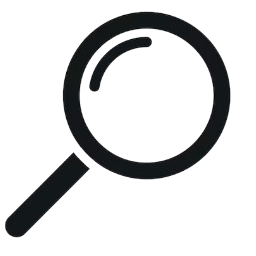
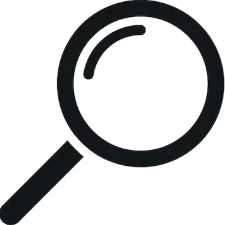
Changes:
Redesigned search button, changed product display layout slightly

Changed region(s): [[0.0, 0.0, 1.0, 1.0]]

diff --git a/static/style.css b/static/style.css
@@ -117,6 +117,9 @@ nav a {
     background-color:inherit;
     color: rgb(33, 37, 41);
 }
+.search_bar input:focus {
+    outline: none;
+}
 
 .search_bar {
     margin-right: 10px;
@@ -124,15 +127,21 @@ nav a {
 .search_bar button img {
     width: 20px;
     height: 20px;
+    align-items: center;
+    justify-content: center;
+    padding-right: 0px;
 }
 .search_bar button {
     background: none;
     border: none;
+    display: flex;
 }
 .search_bar form {
     outline:rgb(33, 37, 41) solid 2px;
     align-items: center;    
     justify-content: center;
+    display: flex;
+    padding: 2px;
 }
 /* Shop Button Dropdown Items */
 .dropdown_menu {
@@ -238,6 +247,8 @@ nav a {
     max-height: 45vh;
     border-radius: 10px;
     outline: black solid 5px;
+    margin-left: 10%;
+    margin-right:20%;
 }
 .displayProduct_info {
     display: flex;
@@ -247,5 +258,5 @@ nav a {
     align-items: flex-start;
 }
 .main_content button {
-    
+    font-size: 2rem;
 }

diff --git a/templates/display_product.html b/templates/display_product.html
@@ -25,7 +25,7 @@
             <div class="search_bar">
                 <form action="{{ url_for('search') }}" method="post">
                     <input type="text" name="SEARCH_BOX" placeholder="Search...">
-                    <button type="submit">Search</button>
+                    <button type="submit"><img src="{{ url_for('static', filename='images/search_icon.png') }}"></button>
                 </form>
             </div>
             <div class="cart_button">

diff --git a/templates/search.html b/templates/search.html
@@ -25,7 +25,7 @@
             <div class="search_bar">
                 <form action="{{ url_for('search') }}" method="post">
                     <input type="text" name="SEARCH_BOX" placeholder="Search...">
-                    <button type="submit">Search</button>
+                    <button type="submit"><img src="{{ url_for('static', filename='images/search_icon.png') }}"></button>
                 </form>
             </div>
             <div class="cart_button">

diff --git a/templates/shop.html b/templates/shop.html
@@ -25,7 +25,7 @@
             <div class="search_bar">
                 <form action="{{ url_for('search') }}" method="post">
                     <input type="text" name="SEARCH_BOX" placeholder="Search...">
-                    <button type="submit">Search</button>
+                    <button type="submit"><img src="{{ url_for('static', filename='images/search_icon.png') }}"></button>
                 </form>
             </div>
             <div class="cart_button">
